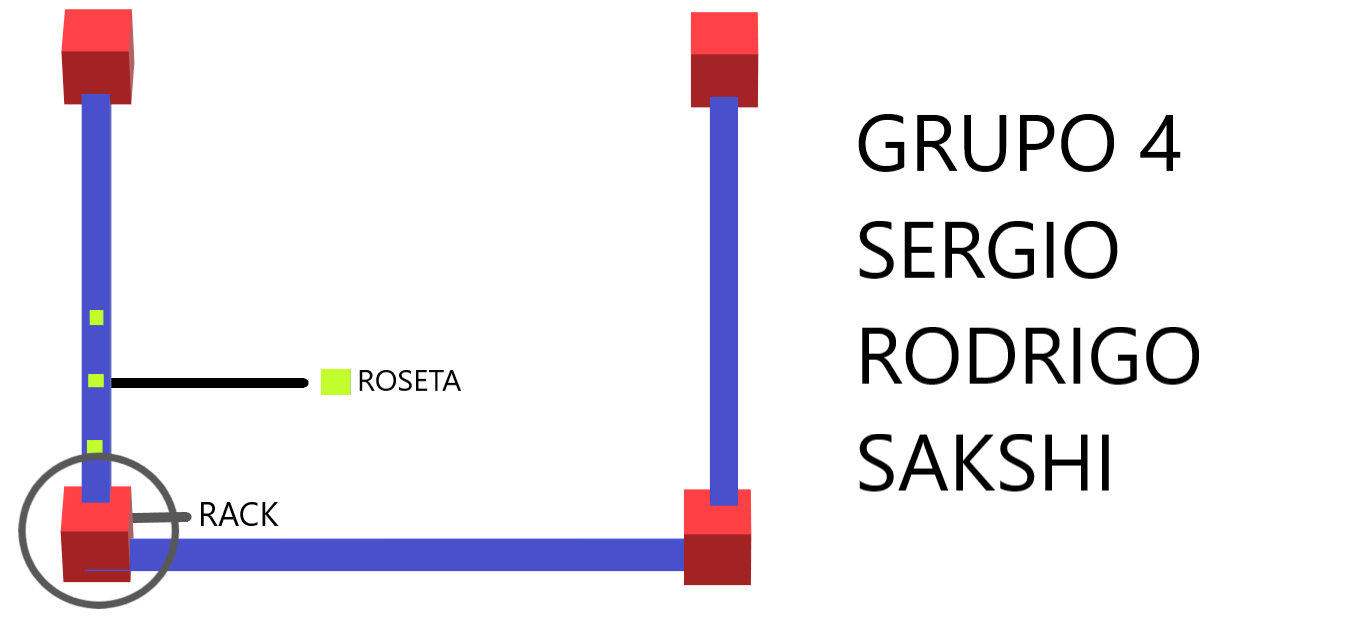
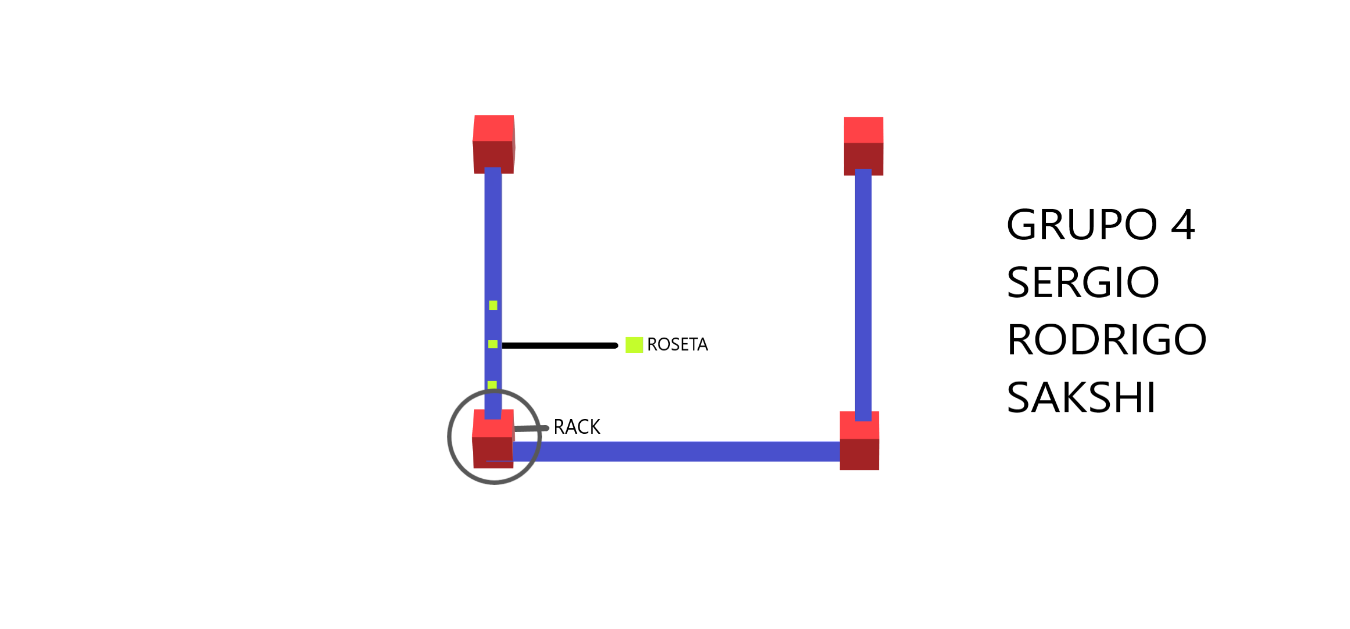
cambios resolucion 1376 x 768

Changed region(s): [[0.0, 0.0, 0.9022, 0.9666]]

diff --git a/Elaboracion.html b/Elaboracion.html
@@ -432,7 +432,7 @@
                             <img src="imagenes/DIA3/2022-03-31 19_46_21-.png">
                         </div>
                         <div class="largo">
-                            <img src="imagenes/DIA3/2022-03-31 19_52_34-.png">
+                            <img src="imagenes/DIA3/2022-03-31 19_52_34-.png" class="imagen_prueba">
                         </div>
                     </div>
                 </div>

diff --git a/Elaboracion.css b/Elaboracion.css
@@ -130,8 +130,8 @@ h5{
   scroll-snap-align: start;
   flex-shrink: 0;
   /* Cambiar tamaño imágenes */
-  width: 350px;
-  height: 350px;
+  width: 1376px;
+  height: 768px;
   /* ----- */
   margin-right: 50px;
   border-radius: 10px;
